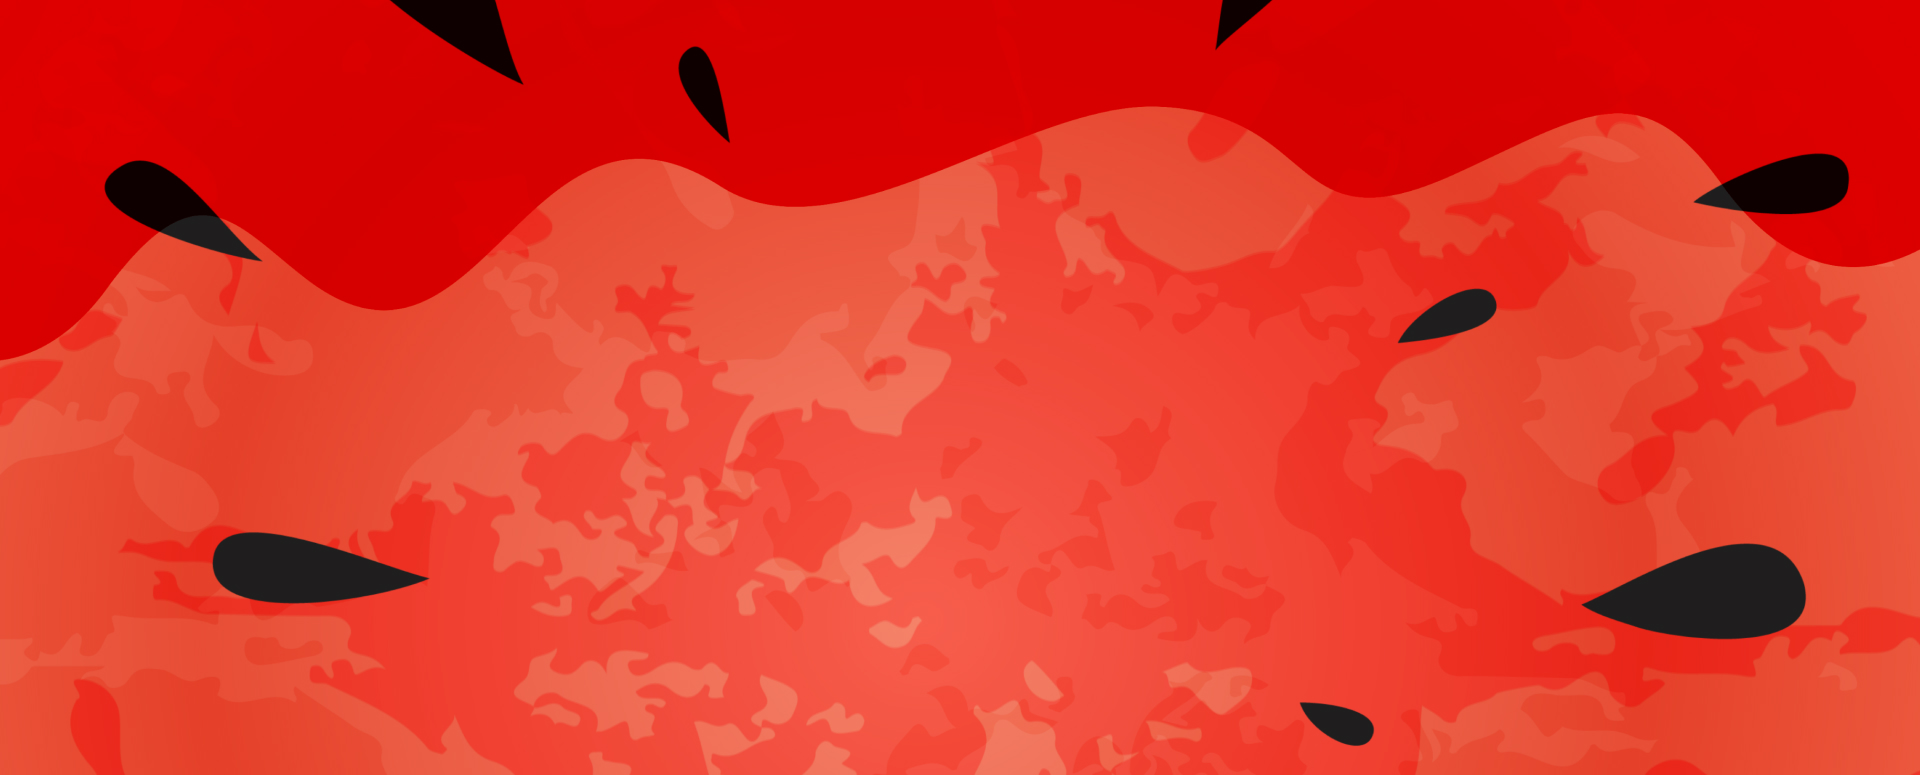
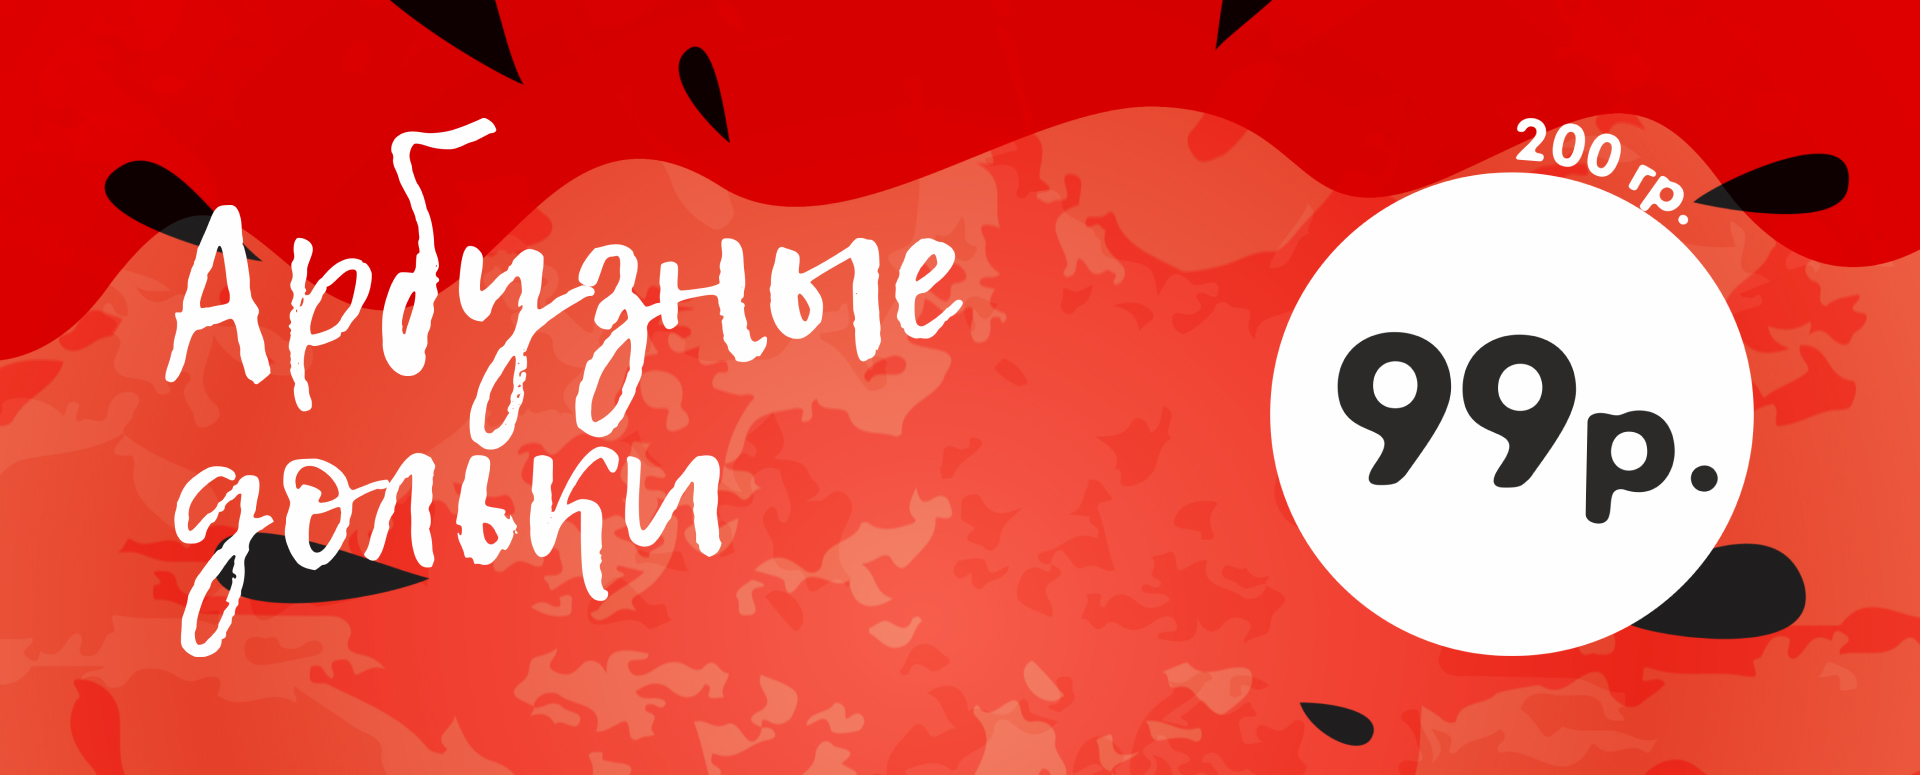
chore: add hero slider draft

Changed region(s): [[0.6562, 0.1548, 0.9375, 0.8671], [0.0625, 0.1548, 0.5, 0.8671], [0.1562, 0.4955, 0.1875, 0.5265]]

diff --git a/src/parts/hero.html b/src/parts/hero.html
@@ -1,0 +1,15 @@
+<section class="hero">
+  <div class="line line_top">
+    <svg width="1920" height="8" viewBox="0 0 1920 8" fill="none" xmlns="http://www.w3.org/2000/svg">
+      <path d="M4 4L1916 4.00017" stroke="#2B2A29" stroke-width="8" stroke-linecap="round" stroke-dasharray="9 25"/>
+    </svg>
+  </div>
+  <div class="hero__slider">
+    <img class="slider__item" src="../images/slide-watermelon.jpg" alt="слайд" />
+  </div>
+  <div class="line line_bottom">
+    <svg width="1920" height="8" viewBox="0 0 1920 8" fill="none" xmlns="http://www.w3.org/2000/svg">
+      <path d="M4 4L1916 4.00017" stroke="#2B2A29" stroke-width="8" stroke-linecap="round" stroke-dasharray="9 25"/>
+    </svg>
+  </div>
+</section>

diff --git a/src/scss/header.scss b/src/scss/header.scss
@@ -2,13 +2,15 @@
 @import './mixins.scss';
 
 .header {
-  width: 100%;
+  max-width: 1920px;
   height: 149px;
   background-color: $white;
+  margin: 0 auto;
   display: flex;
   &__logo-container {
     position: relative;
     width: 343px;
+    z-index: 10;
     svg {
       cursor: pointer;
       width: 150px;

diff --git a/src/scss/hero.scss b/src/scss/hero.scss
@@ -1,0 +1,20 @@
+@import './variables.scss';
+@import './mixins.scss';
+
+.hero {
+  position: relative;
+  max-width: 1920px;
+  height: 775px;
+  margin: 0 auto;
+  box-sizing: border-box;
+  &__slider {
+  }
+}
+
+.slider {
+  &__item {
+    width: 100%;
+    height: auto;
+    z-index: 10;
+  }
+}

diff --git a/src/scss/line.scss b/src/scss/line.scss
@@ -1,0 +1,11 @@
+.line {
+  position: absolute;
+  z-index: 1;
+  left: 0;
+  &_top {
+    top: -10px;
+  }
+  &_bottom {
+    bottom: -9px;
+  }
+}

diff --git a/src/index.html b/src/index.html
@@ -1,3 +1,4 @@
 @@include('parts/head.html')
 @@include('parts/header.html')
+@@include('parts/hero.html')
 @@include('parts/ending.html')

diff --git a/src/scss/index.scss b/src/scss/index.scss
@@ -5,7 +5,6 @@
 }
 
 body {
-  background-color: $black;
   margin: 0;
 }
 
